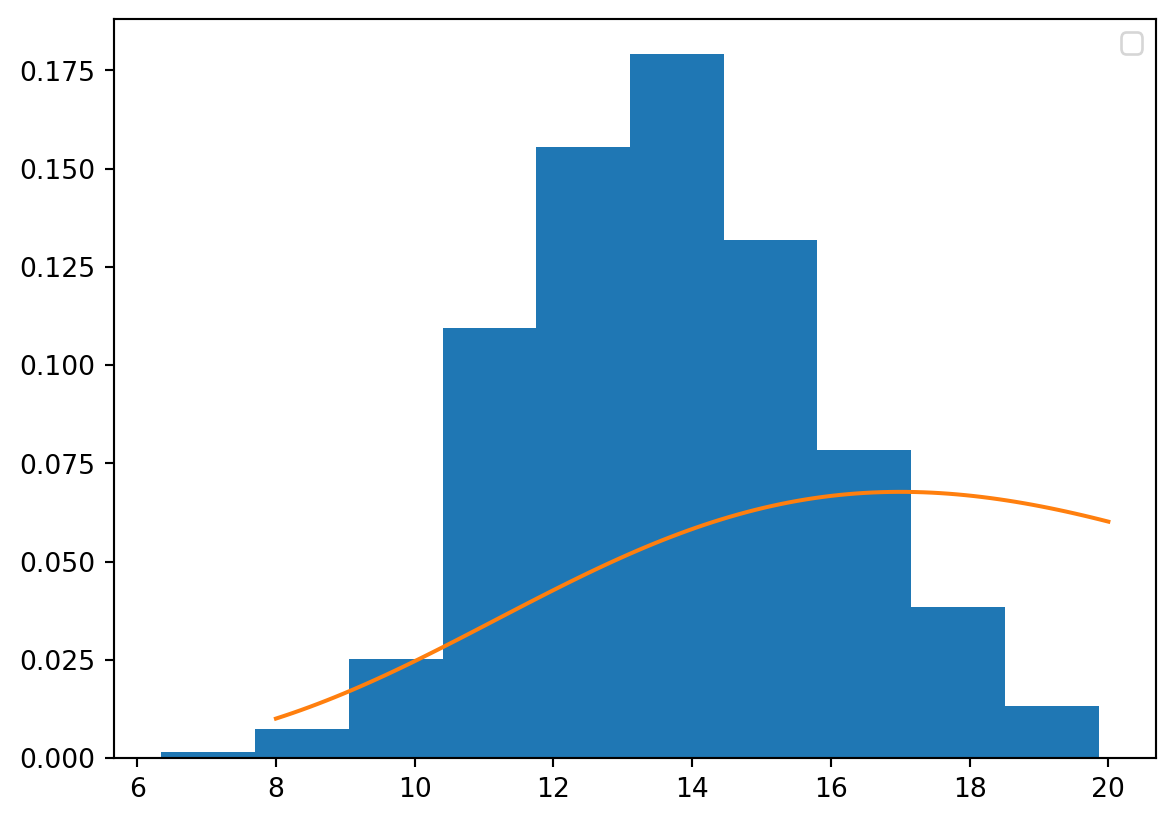
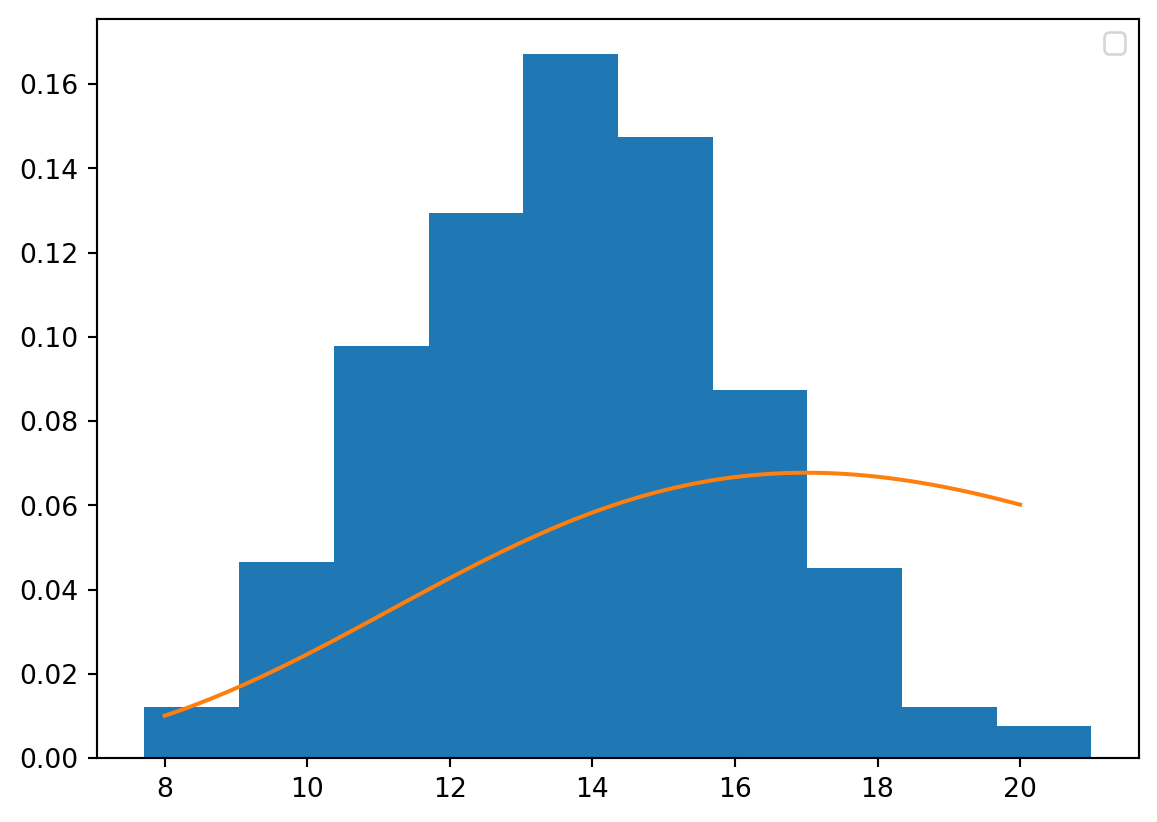
dasdasd

diff --git a/docs/posts/hw8/index.html b/docs/posts/hw8/index.html
@@ -218,7 +218,7 @@ pre > code.sourceCode > span > a:first-child::before { text-decoration: underlin
 
 
 
-<p><img src="youn333.jpg" class="img-fluid"></p>
+<p><img src="youn35.gif" class="img-fluid"></p>
 <section id="adp-표본-점수" class="level1">
 <h1>1. ADP 표본 점수</h1>
 <section id="평균이-30-표준편차가-5인-정규분포를-따른다." class="level2">
@@ -226,7 +226,7 @@ pre > code.sourceCode > span > a:first-child::before { text-decoration: underlin
 </section>
 <section id="adp-실기-시험의-통계파트-표준점수의-밀도함수를-그려보세요." class="level2">
 <h2 class="anchored" data-anchor-id="adp-실기-시험의-통계파트-표준점수의-밀도함수를-그려보세요.">1 ADP 실기 시험의 통계파트 표준점수의 밀도함수를 그려보세요.</h2>
-<div id="b3a30941" class="cell" data-execution_count="1">
+<div id="41ffb000" class="cell" data-execution_count="1">
 <div class="sourceCode cell-code" id="cb1"><pre class="sourceCode python code-with-copy"><code class="sourceCode python"><span id="cb1-1"><a href="#cb1-1" aria-hidden="true" tabindex="-1"></a><span class="im">import</span> numpy <span class="im">as</span> np</span>
 <span id="cb1-2"><a href="#cb1-2" aria-hidden="true" tabindex="-1"></a><span class="im">from</span> scipy.stats <span class="im">import</span> norm</span>
 <span id="cb1-3"><a href="#cb1-3" aria-hidden="true" tabindex="-1"></a><span class="im">import</span> matplotlib.pyplot <span class="im">as</span> plt</span>
@@ -247,7 +247,7 @@ pre > code.sourceCode > span > a:first-child::before { text-decoration: underlin
 </section>
 <section id="adp-수험생을-임의로-1명-선택하여-통계-점수를-조회했을때-45점-보다-높은-점수를-받았을-확률을-구하세요." class="level2">
 <h2 class="anchored" data-anchor-id="adp-수험생을-임의로-1명-선택하여-통계-점수를-조회했을때-45점-보다-높은-점수를-받았을-확률을-구하세요.">2 ADP 수험생을 임의로 1명 선택하여 통계 점수를 조회했을때 45점 보다 높은 점수를 받았을 확률을 구하세요.</h2>
-<div id="7f37f3f4" class="cell" data-execution_count="2">
+<div id="cdf400e3" class="cell" data-execution_count="2">
 <div class="sourceCode cell-code" id="cb2"><pre class="sourceCode python code-with-copy"><code class="sourceCode python"><span id="cb2-1"><a href="#cb2-1" aria-hidden="true" tabindex="-1"></a>a <span class="op">=</span> <span class="dv">1</span> <span class="op">-</span> norm.cdf(<span class="dv">45</span>, <span class="dv">30</span>, <span class="dv">5</span>)</span>
 <span id="cb2-2"><a href="#cb2-2" aria-hidden="true" tabindex="-1"></a>a</span></code><button title="Copy to Clipboard" class="code-copy-button"><i class="bi"></i></button></pre></div>
 <div class="cell-output cell-output-display" data-execution_count="2">
@@ -257,7 +257,7 @@ pre > code.sourceCode > span > a:first-child::before { text-decoration: underlin
 </section>
 <section id="슬통이는-상위-10에-해당하는-점수를-얻었다고-한다면-슬통이의-점수는-얼마인지-계산해보세요." class="level2">
 <h2 class="anchored" data-anchor-id="슬통이는-상위-10에-해당하는-점수를-얻었다고-한다면-슬통이의-점수는-얼마인지-계산해보세요.">3 슬통이는 상위 10%에 해당하는 점수를 얻었다고 한다면, 슬통이의 점수는 얼마인지 계산해보세요.</h2>
-<div id="56cd00c4" class="cell" data-execution_count="3">
+<div id="1cf6354a" class="cell" data-execution_count="3">
 <div class="sourceCode cell-code" id="cb4"><pre class="sourceCode python code-with-copy"><code class="sourceCode python"><span id="cb4-1"><a href="#cb4-1" aria-hidden="true" tabindex="-1"></a>a <span class="op">=</span> norm.ppf(<span class="fl">0.9</span>, <span class="dv">30</span>, <span class="dv">5</span>)</span>
 <span id="cb4-2"><a href="#cb4-2" aria-hidden="true" tabindex="-1"></a>a</span></code><button title="Copy to Clipboard" class="code-copy-button"><i class="bi"></i></button></pre></div>
 <div class="cell-output cell-output-display" data-execution_count="3">
@@ -267,7 +267,7 @@ pre > code.sourceCode > span > a:first-child::before { text-decoration: underlin
 </section>
 <section id="슬기로운-통계생활의-해당-회차-수강생은-16명이었다고-한다.-16명의-통계-파트-점수를-평균을-내었을-때-이-평균값이-따르는-분포의-확률밀도-함수를-1번의-그래프와-겹쳐-그려보세요." class="level2">
 <h2 class="anchored" data-anchor-id="슬기로운-통계생활의-해당-회차-수강생은-16명이었다고-한다.-16명의-통계-파트-점수를-평균을-내었을-때-이-평균값이-따르는-분포의-확률밀도-함수를-1번의-그래프와-겹쳐-그려보세요.">4 슬기로운 통계생활의 해당 회차 수강생은 16명이었다고 한다. 16명의 통계 파트 점수를 평균을 내었을 때, 이 평균값이 따르는 분포의 확률밀도 함수를 1번의 그래프와 겹쳐 그려보세요.</h2>
-<div id="cfaea68b" class="cell" data-execution_count="4">
+<div id="7f40c356" class="cell" data-execution_count="4">
 <div class="sourceCode cell-code" id="cb6"><pre class="sourceCode python code-with-copy"><code class="sourceCode python"><span id="cb6-1"><a href="#cb6-1" aria-hidden="true" tabindex="-1"></a><span class="im">import</span> numpy <span class="im">as</span> np</span>
 <span id="cb6-2"><a href="#cb6-2" aria-hidden="true" tabindex="-1"></a><span class="im">from</span> scipy.stats <span class="im">import</span> norm</span>
 <span id="cb6-3"><a href="#cb6-3" aria-hidden="true" tabindex="-1"></a><span class="im">import</span> matplotlib.pyplot <span class="im">as</span> plt</span>
@@ -295,7 +295,7 @@ pre > code.sourceCode > span > a:first-child::before { text-decoration: underlin
 </section>
 <section id="슬기로운-통계생활-adp-반-수강생들의-통계점수를-평균내었다고-할-때-이-값이-38점보다-높게-나올-확률을-구하세요." class="level2">
 <h2 class="anchored" data-anchor-id="슬기로운-통계생활-adp-반-수강생들의-통계점수를-평균내었다고-할-때-이-값이-38점보다-높게-나올-확률을-구하세요.">5 슬기로운 통계생활 ADP 반 수강생들의 통계점수를 평균내었다고 할 때, 이 값이 38점보다 높게 나올 확률을 구하세요.</h2>
-<div id="bdba4324" class="cell" data-execution_count="5">
+<div id="611e2e00" class="cell" data-execution_count="5">
 <div class="sourceCode cell-code" id="cb7"><pre class="sourceCode python code-with-copy"><code class="sourceCode python"><span id="cb7-1"><a href="#cb7-1" aria-hidden="true" tabindex="-1"></a><span class="im">from</span> scipy.stats <span class="im">import</span> norm</span>
 <span id="cb7-2"><a href="#cb7-2" aria-hidden="true" tabindex="-1"></a></span>
 <span id="cb7-3"><a href="#cb7-3" aria-hidden="true" tabindex="-1"></a>d <span class="op">=</span> <span class="dv">1</span> <span class="op">-</span> norm.cdf(<span class="dv">38</span>, <span class="dv">30</span>, <span class="dv">5</span><span class="op">/</span><span class="dv">4</span>)</span>
@@ -310,7 +310,7 @@ pre > code.sourceCode > span > a:first-child::before { text-decoration: underlin
 <h1>2. Covid 19</h1>
 <section id="다잡아-키트가-코로나-바이러스에-걸린-사람을-양성으로-잡아낼-확률을-계산하세요." class="level2">
 <h2 class="anchored" data-anchor-id="다잡아-키트가-코로나-바이러스에-걸린-사람을-양성으로-잡아낼-확률을-계산하세요.">1 다잡아 키트가 코로나 바이러스에 걸린 사람을 양성으로 잡아낼 확률을 계산하세요.</h2>
-<div id="35ba5d73" class="cell" data-execution_count="6">
+<div id="4a05817c" class="cell" data-execution_count="6">
 <div class="sourceCode cell-code" id="cb9"><pre class="sourceCode python code-with-copy"><code class="sourceCode python"><span id="cb9-1"><a href="#cb9-1" aria-hidden="true" tabindex="-1"></a><span class="co"># P(양성|코로나)</span></span>
 <span id="cb9-2"><a href="#cb9-2" aria-hidden="true" tabindex="-1"></a></span>
 <span id="cb9-3"><a href="#cb9-3" aria-hidden="true" tabindex="-1"></a>a <span class="op">=</span> <span class="dv">370</span><span class="op">/</span><span class="dv">385</span></span>
@@ -322,7 +322,7 @@ pre > code.sourceCode > span > a:first-child::before { text-decoration: underlin
 </section>
 <section id="슬통-회사에서-다잡아-키트를-사용해-양성으로-나온-사람이-실제로는-코로나-바이러스에-걸려-있을-확률을-97라며-키트의-우수성을-주장했다.-이-주장이-옳지-않은-이유를-서술하세요-covid19-발병률을-사용하여-키트의-결과값이-양성으로-나온-사람이-실제로-코로나-바이러스에-걸려있을-확률을-구하세요." class="level2">
 <h2 class="anchored" data-anchor-id="슬통-회사에서-다잡아-키트를-사용해-양성으로-나온-사람이-실제로는-코로나-바이러스에-걸려-있을-확률을-97라며-키트의-우수성을-주장했다.-이-주장이-옳지-않은-이유를-서술하세요-covid19-발병률을-사용하여-키트의-결과값이-양성으로-나온-사람이-실제로-코로나-바이러스에-걸려있을-확률을-구하세요.">2 &amp; 3 슬통 회사에서 다잡아 키트를 사용해 양성으로 나온 사람이 실제로는 코로나 바이러스에 걸려 있을 확률을 97%라며, 키트의 우수성을 주장했다. 이 주장이 옳지 않은 이유를 서술하세요, Covid‑19 발병률을 사용하여, 키트의 결과값이 양성으로 나온 사람이 실제로 코로나 바이러스에 걸려있을 확률을 구하세요.</h2>
-<div id="e44f299c" class="cell" data-execution_count="7">
+<div id="cfc0ff15" class="cell" data-execution_count="7">
 <div class="sourceCode cell-code" id="cb11"><pre class="sourceCode python code-with-copy"><code class="sourceCode python"><span id="cb11-1"><a href="#cb11-1" aria-hidden="true" tabindex="-1"></a>b <span class="op">=</span> <span class="dv">370</span><span class="op">/</span><span class="dv">380</span></span>
 <span id="cb11-2"><a href="#cb11-2" aria-hidden="true" tabindex="-1"></a>b <span class="co">#0.97</span></span>
 <span id="cb11-3"><a href="#cb11-3" aria-hidden="true" tabindex="-1"></a></span>
@@ -354,7 +354,7 @@ pre > code.sourceCode > span > a:first-child::before { text-decoration: underlin
 <h1>3. 카이제곱분포와 표본분산</h1>
 <section id="자유도가-4인-카이제곱분포의-확률밀도함수를-그려보세요" class="level2">
 <h2 class="anchored" data-anchor-id="자유도가-4인-카이제곱분포의-확률밀도함수를-그려보세요">1 자유도가 4인 카이제곱분포의 확률밀도함수를 그려보세요</h2>
-<div id="5d3f5746" class="cell" data-execution_count="8">
+<div id="20ddf48a" class="cell" data-execution_count="8">
 <div class="sourceCode cell-code" id="cb13"><pre class="sourceCode python code-with-copy"><code class="sourceCode python"><span id="cb13-1"><a href="#cb13-1" aria-hidden="true" tabindex="-1"></a><span class="im">from</span> scipy.stats <span class="im">import</span> chi2</span>
 <span id="cb13-2"><a href="#cb13-2" aria-hidden="true" tabindex="-1"></a><span class="im">import</span> numpy <span class="im">as</span> np</span>
 <span id="cb13-3"><a href="#cb13-3" aria-hidden="true" tabindex="-1"></a><span class="im">import</span> matplotlib.pyplot <span class="im">as</span> plt</span>
@@ -375,7 +375,7 @@ pre > code.sourceCode > span > a:first-child::before { text-decoration: underlin
 </section>
 <section id="다음의-확률을-구해보세요-p3-x-5" class="level2">
 <h2 class="anchored" data-anchor-id="다음의-확률을-구해보세요-p3-x-5">2 다음의 확률을 구해보세요 P(3 &lt;= X &lt;= 5)</h2>
-<div id="a89e65e0" class="cell" data-execution_count="9">
+<div id="b468f15f" class="cell" data-execution_count="9">
 <div class="sourceCode cell-code" id="cb14"><pre class="sourceCode python code-with-copy"><code class="sourceCode python"><span id="cb14-1"><a href="#cb14-1" aria-hidden="true" tabindex="-1"></a>right <span class="op">=</span> chi2.cdf(<span class="dv">5</span>, <span class="dv">4</span>)</span>
 <span id="cb14-2"><a href="#cb14-2" aria-hidden="true" tabindex="-1"></a>left <span class="op">=</span> chi2.cdf(<span class="dv">3</span>, <span class="dv">4</span>)</span>
 <span id="cb14-3"><a href="#cb14-3" aria-hidden="true" tabindex="-1"></a></span>
@@ -387,14 +387,14 @@ pre > code.sourceCode > span > a:first-child::before { text-decoration: underlin
 </section>
 <section id="자유도가-4인-카이제곱분포에서-크기가-1000인-표본을-뽑은-후-히스토그램을-그려보세요." class="level2">
 <h2 class="anchored" data-anchor-id="자유도가-4인-카이제곱분포에서-크기가-1000인-표본을-뽑은-후-히스토그램을-그려보세요.">3 자유도가 4인 카이제곱분포에서 크기가 1000인 표본을 뽑은 후, 히스토그램을 그려보세요.</h2>
-<div id="e4bf5f4a" class="cell" data-execution_count="10">
+<div id="0682cf48" class="cell" data-execution_count="10">
 <div class="sourceCode cell-code" id="cb16"><pre class="sourceCode python code-with-copy"><code class="sourceCode python"><span id="cb16-1"><a href="#cb16-1" aria-hidden="true" tabindex="-1"></a>a <span class="op">=</span> chi2.rvs(<span class="dv">4</span>, size <span class="op">=</span> <span class="dv">1000</span>)</span>
 <span id="cb16-2"><a href="#cb16-2" aria-hidden="true" tabindex="-1"></a>plt.hist(a)</span>
 <span id="cb16-3"><a href="#cb16-3" aria-hidden="true" tabindex="-1"></a>plt.show()</span></code><button title="Copy to Clipboard" class="code-copy-button"><i class="bi"></i></button></pre></div>
 <div class="cell-output cell-output-display">
 <div>
 <figure class="figure">
-<p><img src="index_files/figure-html/cell-11-output-1.png" width="575" height="411" class="figure-img"></p>
+<p><img src="index_files/figure-html/cell-11-output-1.png" width="575" height="413" class="figure-img"></p>
 </figure>
 </div>
 </div>
@@ -402,7 +402,7 @@ pre > code.sourceCode > span > a:first-child::before { text-decoration: underlin
 </section>
 <section id="자유도가-4인-카이제곱분포를-따르는-확률변수에서-나올-수-있는-값-중-상위-5에-해당하는-값은-얼마인지-계산해보세요." class="level2">
 <h2 class="anchored" data-anchor-id="자유도가-4인-카이제곱분포를-따르는-확률변수에서-나올-수-있는-값-중-상위-5에-해당하는-값은-얼마인지-계산해보세요.">4 자유도가 4인 카이제곱분포를 따르는 확률변수에서 나올 수 있는 값 중 상위 5%에 해당하는 값은 얼마인지 계산해보세요.</h2>
-<div id="9dc43e2d" class="cell" data-execution_count="11">
+<div id="dbc4d915" class="cell" data-execution_count="11">
 <div class="sourceCode cell-code" id="cb17"><pre class="sourceCode python code-with-copy"><code class="sourceCode python"><span id="cb17-1"><a href="#cb17-1" aria-hidden="true" tabindex="-1"></a>chi2.ppf(<span class="fl">0.95</span>, <span class="dv">4</span>)</span></code><button title="Copy to Clipboard" class="code-copy-button"><i class="bi"></i></button></pre></div>
 <div class="cell-output cell-output-display" data-execution_count="11">
 <pre><code>np.float64(9.487729036781154)</code></pre>
@@ -411,7 +411,7 @@ pre > code.sourceCode > span > a:first-child::before { text-decoration: underlin
 </section>
 <section id="번에서-뽑힌-표본값들-중-상위-5에-위치한-표본의-값은-얼마인가요" class="level2">
 <h2 class="anchored" data-anchor-id="번에서-뽑힌-표본값들-중-상위-5에-위치한-표본의-값은-얼마인가요">5 3번에서 뽑힌 표본값들 중 상위 5%에 위치한 표본의 값은 얼마인가요?</h2>
-<div id="7468059f" class="cell" data-execution_count="12">
+<div id="104b2541" class="cell" data-execution_count="12">
 <div class="sourceCode cell-code" id="cb19"><pre class="sourceCode python code-with-copy"><code class="sourceCode python"><span id="cb19-1"><a href="#cb19-1" aria-hidden="true" tabindex="-1"></a>chi2.ppf(<span class="fl">0.9975</span>, <span class="dv">4</span>)</span></code><button title="Copy to Clipboard" class="code-copy-button"><i class="bi"></i></button></pre></div>
 <div class="cell-output cell-output-display" data-execution_count="12">
 <pre><code>np.float64(16.423936124136556)</code></pre>
@@ -420,7 +420,7 @@ pre > code.sourceCode > span > a:first-child::before { text-decoration: underlin
 </section>
 <section id="평균이-3-표준편차가-2인-정규분포를-따르는-확률변수에서-크기가-20인-표본-𝑥1-𝑥20을-뽑은-후-표본분산을-계산한-것을-𝑠21이라-생각해보죠.-다음을-수행해보세요" class="level2">
 <h2 class="anchored" data-anchor-id="평균이-3-표준편차가-2인-정규분포를-따르는-확률변수에서-크기가-20인-표본-𝑥1-𝑥20을-뽑은-후-표본분산을-계산한-것을-𝑠21이라-생각해보죠.-다음을-수행해보세요">6 평균이 3, 표준편차가 2인 정규분포를 따르는 확률변수에서 크기가 20인 표본, 𝑥1, …, 𝑥20,을 뽑은 후 표본분산을 계산한 것을 𝑠21이라 생각해보죠. 다음을 수행해보세요!</h2>
-<div id="7add97be" class="cell" data-execution_count="13">
+<div id="4b78830a" class="cell" data-execution_count="13">
 <div class="sourceCode cell-code" id="cb21"><pre class="sourceCode python code-with-copy"><code class="sourceCode python"><span id="cb21-1"><a href="#cb21-1" aria-hidden="true" tabindex="-1"></a>std <span class="op">=</span> []</span>
 <span id="cb21-2"><a href="#cb21-2" aria-hidden="true" tabindex="-1"></a></span>
 <span id="cb21-3"><a href="#cb21-3" aria-hidden="true" tabindex="-1"></a><span class="cf">for</span> i <span class="kw">in</span> <span class="bu">range</span>(<span class="dv">500</span>):</span>
@@ -441,7 +441,7 @@ pre > code.sourceCode > span > a:first-child::before { text-decoration: underlin
 <span id="cb21-18"><a href="#cb21-18" aria-hidden="true" tabindex="-1"></a>plt.legend()</span>
 <span id="cb21-19"><a href="#cb21-19" aria-hidden="true" tabindex="-1"></a>plt.show()</span></code><button title="Copy to Clipboard" class="code-copy-button"><i class="bi"></i></button></pre></div>
 <div class="cell-output cell-output-stderr">
-<pre><code>C:\Users\USER\AppData\Local\Temp\ipykernel_9136\1831535740.py:18: UserWarning:
+<pre><code>C:\Users\USER\AppData\Local\Temp\ipykernel_1456\1831535740.py:18: UserWarning:
 
 No artists with labels found to put in legend.  Note that artists whose label start with an underscore are ignored when legend() is called with no argument.
 </code></pre>
@@ -449,7 +449,7 @@ No artists with labels found to put in legend.  Note that artists whose label st
 <div class="cell-output cell-output-display">
 <div>
 <figure class="figure">
-<p><img src="index_files/figure-html/cell-14-output-2.png" width="587" height="411" class="figure-img"></p>
+<p><img src="index_files/figure-html/cell-14-output-2.png" width="579" height="411" class="figure-img"></p>
 </figure>
 </div>
 </div>

diff --git a/docs/blog.html b/docs/blog.html
@@ -204,7 +204,7 @@ window.Quarto = {
 <div class="g-col-1" data-index="0" data-listing-file-modified-sort="1723077518328" data-listing-reading-time-sort="1" data-listing-word-count-sort="2">
 <a href="./posts/index.html" class="quarto-grid-link">
 <div class="quarto-grid-item card h-100 card-left">
-<p class="card-img-top"><img src="posts\hw8\youn333.jpg" style="height: 150px;"  class="thumbnail-image card-img"/></p>
+<p class="card-img-top"><img src="posts\hw8\youn35.gif" style="height: 150px;"  class="thumbnail-image card-img"/></p>
 <div class="card-body post-contents">
 <h5 class="no-anchor card-title listing-title">
 Recent posts
@@ -223,10 +223,10 @@ Recent posts
 </div>
 </a>
 </div>
-<div class="g-col-1" data-index="1" data-categories="bigdata" data-listing-date-sort="1725289200000" data-listing-file-modified-sort="1725291251883" data-listing-date-modified-sort="NaN" data-listing-reading-time-sort="3" data-listing-word-count-sort="442">
+<div class="g-col-1" data-index="1" data-categories="bigdata" data-listing-date-sort="1725289200000" data-listing-file-modified-sort="1725291398904" data-listing-date-modified-sort="NaN" data-listing-reading-time-sort="3" data-listing-word-count-sort="442">
 <a href="./posts/hw8/index.html" class="quarto-grid-link">
 <div class="quarto-grid-item card h-100 card-left">
-<p class="card-img-top"><img src="posts\hw8\youn333.jpg" style="height: 150px;"  class="thumbnail-image card-img"/></p>
+<p class="card-img-top"><img src="posts\hw8\youn35.gif" style="height: 150px;"  class="thumbnail-image card-img"/></p>
 <div class="card-body post-contents">
 <h5 class="no-anchor card-title listing-title">
 homework8
@@ -244,7 +244,7 @@ bigdata
 </section>
 <section id="adp-실기-시험의-통계파트-표준점수의-밀도함수를-그려보세요." class="level2">
 
-<div id="b3a30941" class="cell" data-execution_count="1">
+<div id="41ffb000" class="cell" data-execution_count="1">
 <div class="sourceCode cell-code" id="cb1"><pre class="sourceCode python code-with-copy"><code class="sourceCode python"><span id="cb1-1"><span class="im">import</span> numpy <span class="im">as</span> np</span>
 <span id="cb1-2"><span class="im">from</span> scipy.stats <span class="im">import</span> norm</span>
 <span id="cb1-3"><span class="im">import</span> matplotlib.pyplot <span class="im">as</span> plt</span>
@@ -261,7 +261,7 @@ bigdata
 </figure>
 </div>
 </div>
-</div>…</section><section id="adp-수험생을-임의로-1명-선택하여-통계-점수를-조회했을때-45점-보다-높은-점수를-받았을-확률을-구하세요." class="level2"><div id="7f37f3f4" class="cell" data-execution_count="2"><div class="sourceCode cell-code" id="cb2"><pre class="sourceCode python code-with-copy"><code class="sourceCode python"><span id="cb2-1"><span class="op"></span><span class="dv"></span><span class="op"></span><span class="dv"></span><span class="dv"></span><span class="dv"></span></span><span id="cb2-2"></span></code></pre></div><div class="cell-output cell-output-display" data-execution_count="2"><pre><code></code></pre></div></div></section><section id="슬통이는-상위-10에-해당하는-점수를-얻었다고-한다면-슬통이의-점수는-얼마인지-계산해보세요." class="level2"><div id="56cd00c4" class="cell" data-execution_count="3"><div class="sourceCode cell-code" id="cb4"><pre class="sourceCode python code-with-copy"><code class="sourceCode python"><span id="cb4-1"><span class="op"></span><span class="fl"></span><span class="dv"></span><span class="dv"></span></span><span id="cb4-2"></span></code></pre></div><div class="cell-output cell-output-display" data-execution_count="3"><pre><code></code></pre></div></div></section><section id="슬기로운-통계생활의-해당-회차-수강생은-16명이었다고-한다.-16명의-통계-파트-점수를-평균을-내었을-때-이-평균값이-따르는-분포의-확률밀도-함수를-1번의-그래프와-겹쳐-그려보세요." class="level2"><div id="cfaea68b" class="cell" data-execution_count="4"><div class="sourceCode cell-code" id="cb6"><pre class="sourceCode python code-with-copy"><code class="sourceCode python"><span id="cb6-1"><span class="im"></span><span class="im"></span></span><span id="cb6-2"><span class="im"></span><span class="im"></span></span><span id="cb6-3"><span class="im"></span><span class="im"></span></span><span id="cb6-4"></span><span id="cb6-5"><span class="op"></span><span class="dv"></span><span class="dv"></span><span class="dv"></span></span><span id="cb6-6"><span class="op"></span><span class="dv"></span><span class="dv"></span></span><span id="cb6-7"></span><span id="cb6-8"><span class="op"></span><span class="dv"></span><span class="dv"></span><span class="dv"></span></span><span id="cb6-9"><span class="op"></span><span class="dv"></span><span class="dv"></span><span class="op"></span><span class="dv"></span></span><span id="cb6-10"></span><span id="cb6-11"><span class="op"></span><span class="st"></span></span><span id="cb6-12"><span class="op"></span><span class="st"></span></span><span id="cb6-13"></span><span id="cb6-14"></span><span id="cb6-15"></span><span id="cb6-16"></span></code></pre></div><div class="cell-output cell-output-display"><div><figure class="figure"><p></p></figure></div></div></div></section><section id="슬기로운-통계생활-adp-반-수강생들의-통계점수를-평균내었다고-할-때-이-값이-38점보다-높게-나올-확률을-구하세요." class="level2"><div id="bdba4324" class="cell" data-execution_count="5"><div class="sourceCode cell-code" id="cb7"><pre class="sourceCode python code-with-copy"><code class="sourceCode python"><span id="cb7-1"><span class="im"></span><span class="im"></span></span><span id="cb7-2"></span><span id="cb7-3"><span class="op"></span><span class="dv"></span><span class="op"></span><span class="dv"></span><span class="dv"></span><span class="dv"></span><span class="op"></span><span class="dv"></span></span><span id="cb7-4"></span></code></pre></div><div class="cell-output cell-output-display" data-execution_count="5"><pre><code></code></pre></div></div></section>
+</div>…</section><section id="adp-수험생을-임의로-1명-선택하여-통계-점수를-조회했을때-45점-보다-높은-점수를-받았을-확률을-구하세요." class="level2"><div id="cdf400e3" class="cell" data-execution_count="2"><div class="sourceCode cell-code" id="cb2"><pre class="sourceCode python code-with-copy"><code class="sourceCode python"><span id="cb2-1"><span class="op"></span><span class="dv"></span><span class="op"></span><span class="dv"></span><span class="dv"></span><span class="dv"></span></span><span id="cb2-2"></span></code></pre></div><div class="cell-output cell-output-display" data-execution_count="2"><pre><code></code></pre></div></div></section><section id="슬통이는-상위-10에-해당하는-점수를-얻었다고-한다면-슬통이의-점수는-얼마인지-계산해보세요." class="level2"><div id="1cf6354a" class="cell" data-execution_count="3"><div class="sourceCode cell-code" id="cb4"><pre class="sourceCode python code-with-copy"><code class="sourceCode python"><span id="cb4-1"><span class="op"></span><span class="fl"></span><span class="dv"></span><span class="dv"></span></span><span id="cb4-2"></span></code></pre></div><div class="cell-output cell-output-display" data-execution_count="3"><pre><code></code></pre></div></div></section><section id="슬기로운-통계생활의-해당-회차-수강생은-16명이었다고-한다.-16명의-통계-파트-점수를-평균을-내었을-때-이-평균값이-따르는-분포의-확률밀도-함수를-1번의-그래프와-겹쳐-그려보세요." class="level2"><div id="7f40c356" class="cell" data-execution_count="4"><div class="sourceCode cell-code" id="cb6"><pre class="sourceCode python code-with-copy"><code class="sourceCode python"><span id="cb6-1"><span class="im"></span><span class="im"></span></span><span id="cb6-2"><span class="im"></span><span class="im"></span></span><span id="cb6-3"><span class="im"></span><span class="im"></span></span><span id="cb6-4"></span><span id="cb6-5"><span class="op"></span><span class="dv"></span><span class="dv"></span><span class="dv"></span></span><span id="cb6-6"><span class="op"></span><span class="dv"></span><span class="dv"></span></span><span id="cb6-7"></span><span id="cb6-8"><span class="op"></span><span class="dv"></span><span class="dv"></span><span class="dv"></span></span><span id="cb6-9"><span class="op"></span><span class="dv"></span><span class="dv"></span><span class="op"></span><span class="dv"></span></span><span id="cb6-10"></span><span id="cb6-11"><span class="op"></span><span class="st"></span></span><span id="cb6-12"><span class="op"></span><span class="st"></span></span><span id="cb6-13"></span><span id="cb6-14"></span><span id="cb6-15"></span><span id="cb6-16"></span></code></pre></div><div class="cell-output cell-output-display"><div><figure class="figure"><p></p></figure></div></div></div></section><section id="슬기로운-통계생활-adp-반-수강생들의-통계점수를-평균내었다고-할-때-이-값이-38점보다-높게-나올-확률을-구하세요." class="level2"><div id="611e2e00" class="cell" data-execution_count="5"><div class="sourceCode cell-code" id="cb7"><pre class="sourceCode python code-with-copy"><code class="sourceCode python"><span id="cb7-1"><span class="im"></span><span class="im"></span></span><span id="cb7-2"></span><span id="cb7-3"><span class="op"></span><span class="dv"></span><span class="op"></span><span class="dv"></span><span class="dv"></span><span class="dv"></span><span class="op"></span><span class="dv"></span></span><span id="cb7-4"></span></code></pre></div><div class="cell-output cell-output-display" data-execution_count="5"><pre><code></code></pre></div></div></section>
 </div>
 <div class="card-attribution card-text-small justify">
 <div class="listing-author">

diff --git a/docs/posts/index.html b/docs/posts/index.html
@@ -226,10 +226,10 @@ window.Quarto = {
     </div>
 </div>
 <div class="list grid quarto-listing-cols-3">
-<div class="g-col-1" data-index="0" data-categories="bigdata" data-listing-date-sort="1725289200000" data-listing-file-modified-sort="1725291251883" data-listing-date-modified-sort="NaN" data-listing-reading-time-sort="3" data-listing-word-count-sort="442">
+<div class="g-col-1" data-index="0" data-categories="bigdata" data-listing-date-sort="1725289200000" data-listing-file-modified-sort="1725291398904" data-listing-date-modified-sort="NaN" data-listing-reading-time-sort="3" data-listing-word-count-sort="442">
 <a href="../posts/hw8/index.html" class="quarto-grid-link">
 <div class="quarto-grid-item card h-100 card-left">
-<p class="card-img-top"><img src="hw8\youn333.jpg" style="height: 150px;"  class="thumbnail-image card-img"/></p>
+<p class="card-img-top"><img src="hw8\youn35.gif" style="height: 150px;"  class="thumbnail-image card-img"/></p>
 <div class="card-body post-contents">
 <h5 class="no-anchor card-title listing-title">
 homework8
